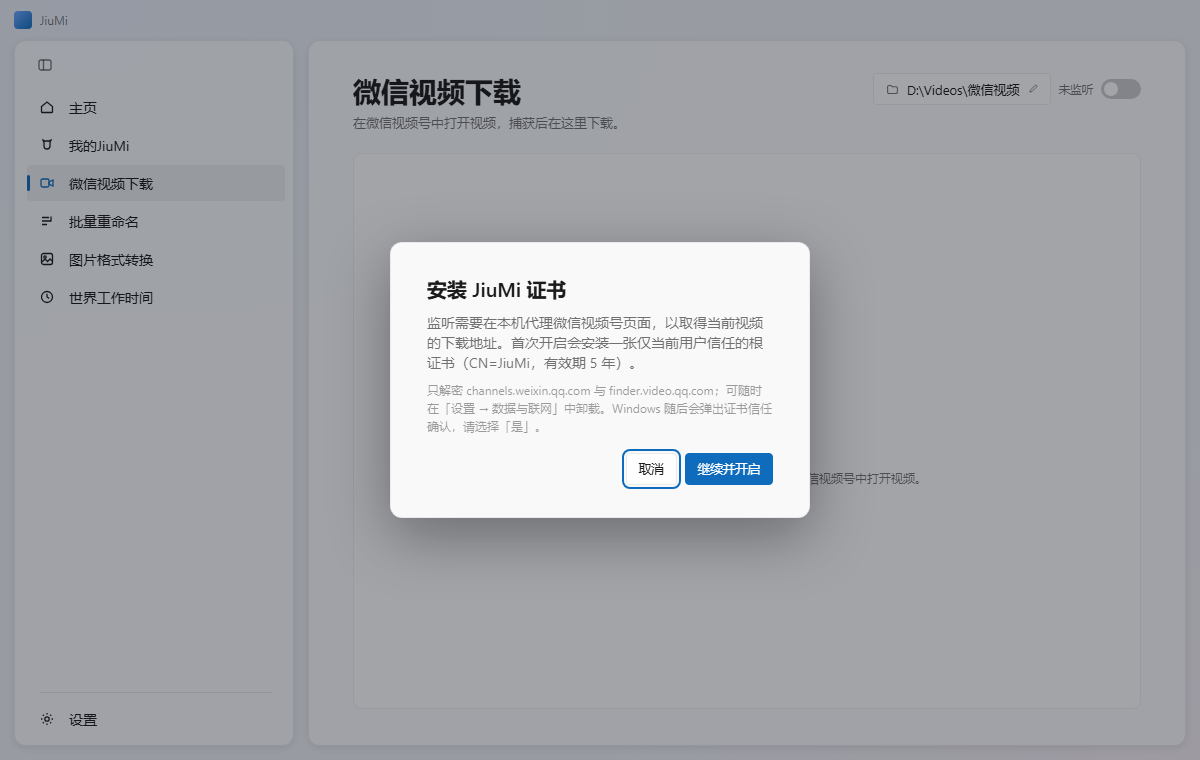
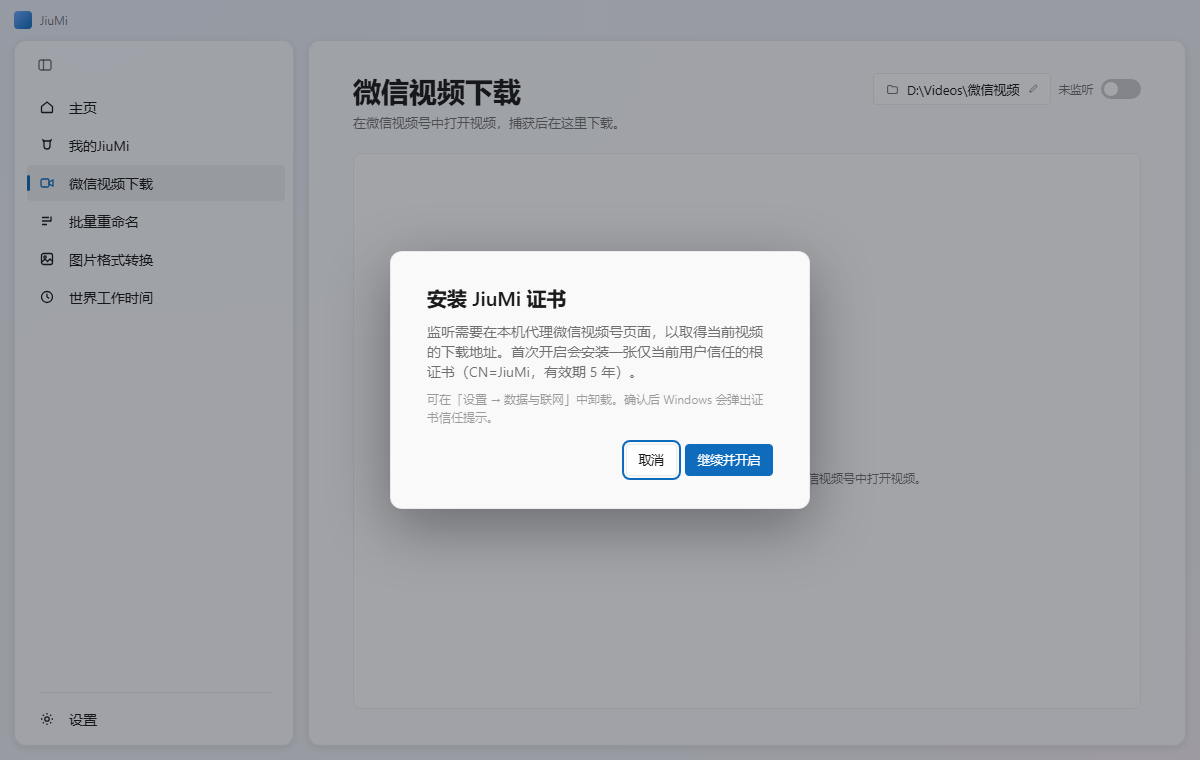
fix(wechat): simplify the certificate note
Keep the uninstall location and the Windows trust prompt, and drop
the decrypted-host list from the confirmation.

diff --git a/docs/prototypes/wechat-video.html b/docs/prototypes/wechat-video.html
@@ -837,7 +837,7 @@ function renderEmpty() {
 function certHtml() {
   const title = '安装 JiuMi 证书';
   const body = '监听需要在本机代理微信视频号页面，以取得当前视频的下载地址。首次开启会安装一张仅当前用户信任的根证书（CN=JiuMi，有效期 5 年）。';
-  const note = '只解密 channels.weixin.qq.com 与 finder.video.qq.com；可随时在「设置 → 数据与联网」中卸载。Windows 随后会弹出证书信任确认，请选择「是」。';
+  const note = '可在「设置 → 数据与联网」中卸载。确认后 Windows 会弹出证书信任提示。';
   if (model.cert === 'dialog') {
     return '<div class="dialog facontent">' +
       '<h2>' + title + '</h2>' +

diff --git a/docs/ui-spec.md b/docs/ui-spec.md
@@ -646,7 +646,7 @@ JiuMi 应用外壳的视觉与交互规格。跨模块的结构规则见 [`docs/
 
 - 触发：首次开启监听且 `IWeChatVideoCapture.IsCertificateInstalled` 为 false；已安装不弹。
 - 独立无边框确认窗，样式同「关闭询问框」：宽 420、高度随内容、`CenterOwner`、无系统装饰、透明底；卡片外边距 24、内边距 36 32、圆角 12、`SolidBackgroundFillColorBaseBrush` + 1px `CardStrokeColorDefaultBrush` + `JiuMiIslandShadow`；不显示应用名或品牌头。
-- 标题 20px SemiBold `Tool.WeChatVideo.Certificate.Title`（「安装 JiuMi 证书」）；正文 14px 次文字色 `Tool.WeChatVideo.Certificate.Body`；下方 12px 三级色 `Tool.WeChatVideo.Certificate.Note`，写明只解密 `channels.weixin.qq.com` 与 `finder.video.qq.com`、可在「设置 → 数据与联网」中卸载、Windows 随后会弹出证书信任确认。
+- 标题 20px SemiBold `Tool.WeChatVideo.Certificate.Title`（「安装 JiuMi 证书」）；正文 14px 次文字色 `Tool.WeChatVideo.Certificate.Body`；下方 12px 三级色 `Tool.WeChatVideo.Certificate.Note`，写明可在「设置 → 数据与联网」中卸载、Windows 随后会弹出证书信任确认。
 - 按钮右对齐、间距 8、高 32：`取消`（次要、Esc、默认焦点）→ `继续并开启`（强调色）。默认焦点在取消，避免回车误装。
 - 确认后先关本框再调用启动，Windows 信任弹窗不与本框叠加。取消则开关回弹到关，不写任何状态。启动失败或信任被拒 → 全局 InfoBar（`Error.WeChatVideo.CaptureStartFailed`，重试），开关回弹。
 - 证书保留在 `CurrentUser` 直到设置页显式卸载（ADR-0013 决策 8）；卸载后下次监听重新弹本框。
